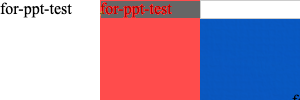
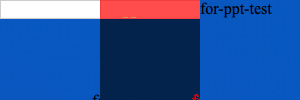
test reporter

diff --git a/test/VSelector.ts b/test/VSelector.ts
@@ -44,7 +44,7 @@ const selectors = [
 // 没时间，只好这样简单校验下
 export default () => {
     it('VSelector.prototype.screenshot', async () => {
-        await $('body').screenshot('/sss/1.png')
+        await $('#for-ppt-test').screenshot('/sss/1.png')
     })
 
     it('VSelector.prototype.upload', async () => {
